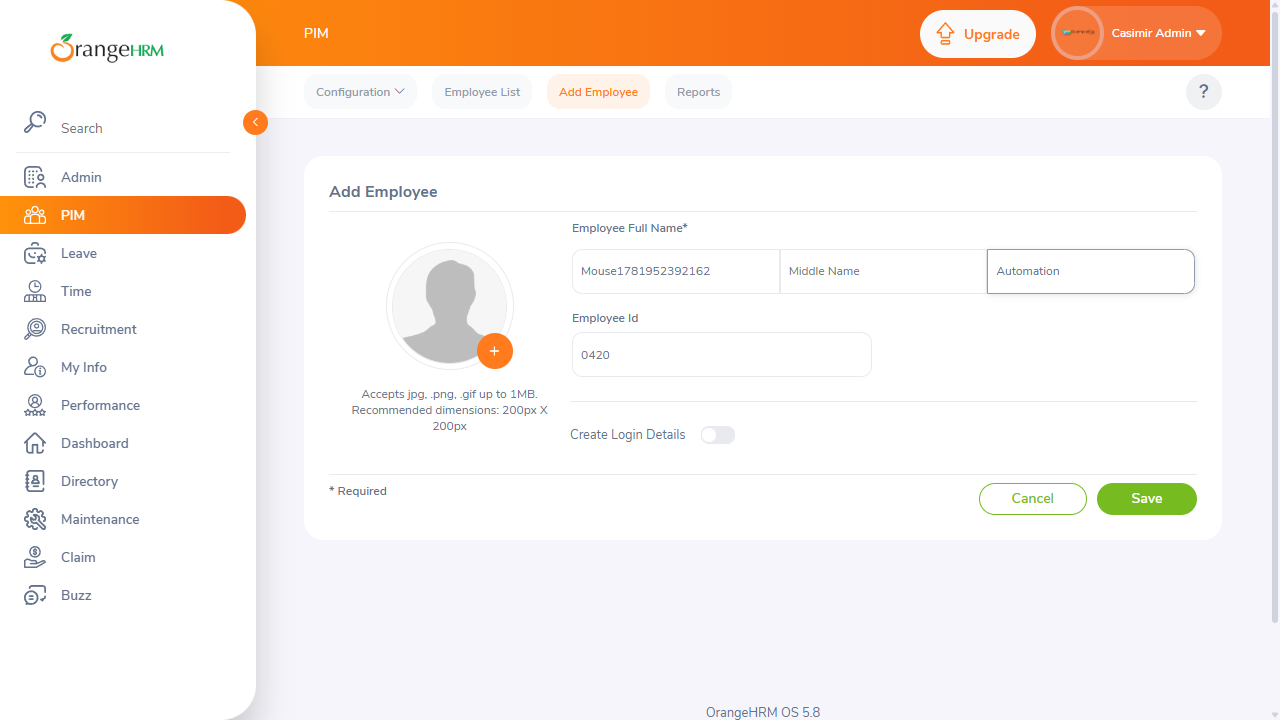
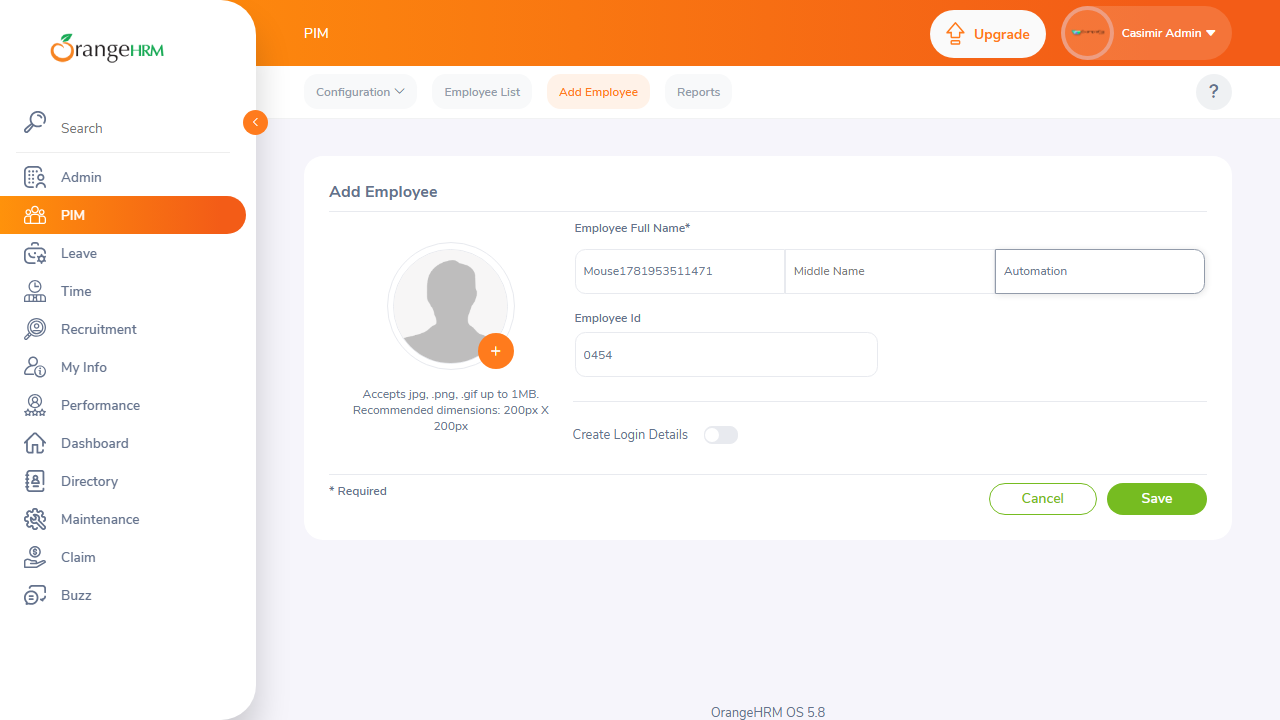
Complete TC-009 create lead with valid data

diff --git a/tests/lead-management.spec.ts b/tests/lead-management.spec.ts
@@ -5,6 +5,7 @@ import { PIMPage } from '../pages/PIMPage';
 
 import { loginData } from '../test-data/loginData';
 import { employeeData } from '../test-data/employeeData';
+import { takeEvidence } from '../utils/screenshotHelper';
 
 test.describe('Lead Management Module', () => {
 
@@ -25,14 +26,22 @@ test.describe('Lead Management Module', () => {
 
         await pim.clickAddEmployee();
 
-        await pim.createEmployee(
-            employeeData.validEmployee.firstName,
-            employeeData.validEmployee.lastName
-        );
+      await pim.createEmployee(
+    employeeData.validEmployee.firstName,
+    employeeData.validEmployee.lastName
+);
 
-        await expect(page.url())
-    .toContain('viewPersonalDetails');
 
-    });
+await expect(page)
+    .toHaveURL(/viewPersonalDetails/);
+
+await takeEvidence(
+    page,
+    'TC-009',
+    'CreateLeadWithValidData',
+    'PASS'
+);
+
+});
 
 });

diff --git a/pages/PIMPage.ts b/pages/PIMPage.ts
@@ -69,21 +69,13 @@ async createEmployee(
 
     await this.lastName.fill(lastName);
 
-    console.log('First Name:', await this.firstName.inputValue());
-    console.log('Last Name:', await this.lastName.inputValue());
-
-    await this.page.screenshot({
-        path: 'screenshots/before-save.png'
-    });
-
-    await this.saveButton.click();
-
-    await this.page.waitForTimeout(5000);
-
-    console.log(
-        'Current URL After Save:',
-        this.page.url()
-    );
+    await Promise.all([
+        this.page.waitForURL(
+            /viewPersonalDetails/,
+            { timeout: 20000 }
+        ),
+        this.saveButton.click()
+    ]);
 
 }
 
